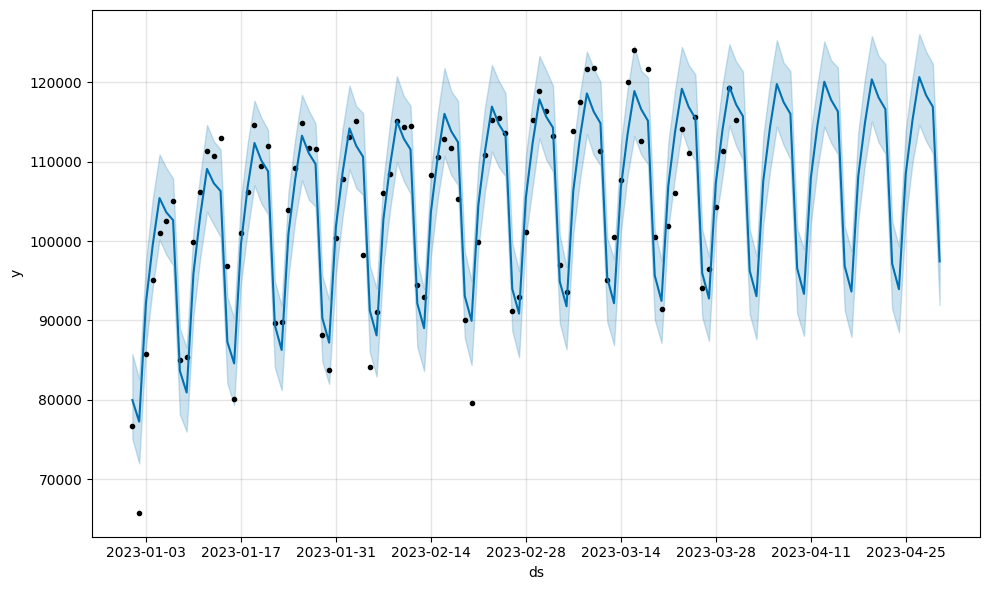
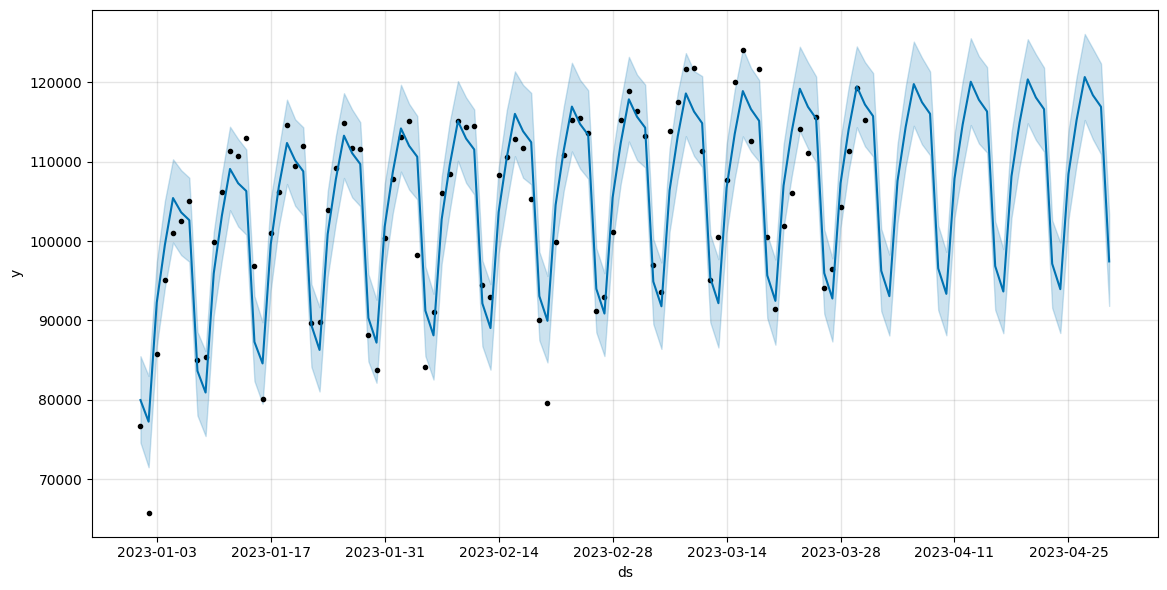
chore: standardize plot sizes for consistent README rendering

diff --git a/src/model_prophet.py b/src/model_prophet.py
@@ -52,10 +52,12 @@ def main() -> None:
     print(f"[model] saved forecast -> {cfg.out_forecast_csv}")
 
     fig1 = model.plot(forecast)
+    fig1.set_size_inches(12, 6)
     fig1.savefig(cfg.out_plot_forecast, bbox_inches="tight")
     print(f"[model] saved plot -> {cfg.out_plot_forecast}")
 
     fig2 = model.plot_components(forecast)
+    fig2.set_size_inches(12, 8)
     fig2.savefig(cfg.out_plot_components, bbox_inches="tight")
     print(f"[model] saved components -> {cfg.out_plot_components}")
 

diff --git a/src/evaluate.py b/src/evaluate.py
@@ -75,7 +75,7 @@ def main() -> None:
     print(f"[eval] saved metrics -> {cfg.out_metrics_csv}")
     print(f"[eval] MAE={mae:,.2f}  MAPE={mape_pct:.2f}%")
 
-    plt.figure()
+    plt.figure(figsize=(12, 6))
     plt.plot(pred["ds"], pred["y"], label="actual")
     plt.plot(pred["ds"], pred["yhat"], label="predicted")
     plt.xticks(rotation=45)

diff --git a/README.md b/README.md
@@ -49,8 +49,8 @@ All processing is fully reproducible via the pipeline.
 
 4. **Evaluation**
    - Time-based backtest
-   - Train: first 75 days
-   - Test: last 15 days
+   - Train: first 75 days (chronological)
+   - Test: last 15 days (holdout)
    - Metrics: MAE and MAPE
 
 ---
@@ -62,6 +62,18 @@ All processing is fully reproducible via the pipeline.
 - **MAPE:** ~7.33%
 
 These results indicate the model captures weekly demand patterns well and provides actionable short-term forecasts suitable for operational planning.
+
+### Backtest Performance
+
+Actual vs predicted daily demand on a 15-day holdout period:
+
+![Backtest: actual vs predicted](reports/figures/backtest_actual_vs_pred.png)
+
+### 30-Day Demand Forecast
+
+Prophet forecast showing expected demand and uncertainty bounds:
+
+![30-day demand forecast](reports/figures/prophet_forecast.png)
 
 ### Artifacts
 - Forecast plot: `reports/figures/prophet_forecast.png`
@@ -114,8 +126,14 @@ python -m src.evaluate
 ---
 
 ## Future Work
+- Hyperparameter tuning and holiday effects
+- Cross-validation over rolling windows
+- Comparison with alternative models (ARIMA, XGBoost, LSTM)
+- Integration into a scheduled or orchestrated workflow
 
-* Hyperparameter tuning and holiday effects
-* Cross-validation over rolling windows
-* Comparison with alternative models (ARIMA, XGBoost, LSTM)
-* Integration into a scheduled or orchestrated workflow
+---
+
+## Key Takeaways
+- Demand exhibits strong and stable weekly seasonality
+- Prophet provides stable short-term forecasts with ~7% MAPE
+- Suitable for operational planning and capacity decisions
